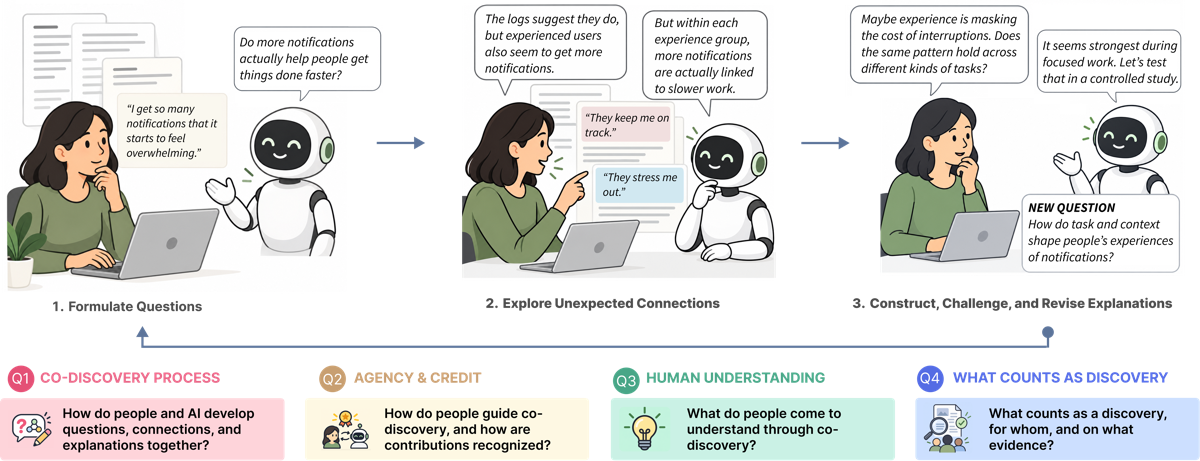
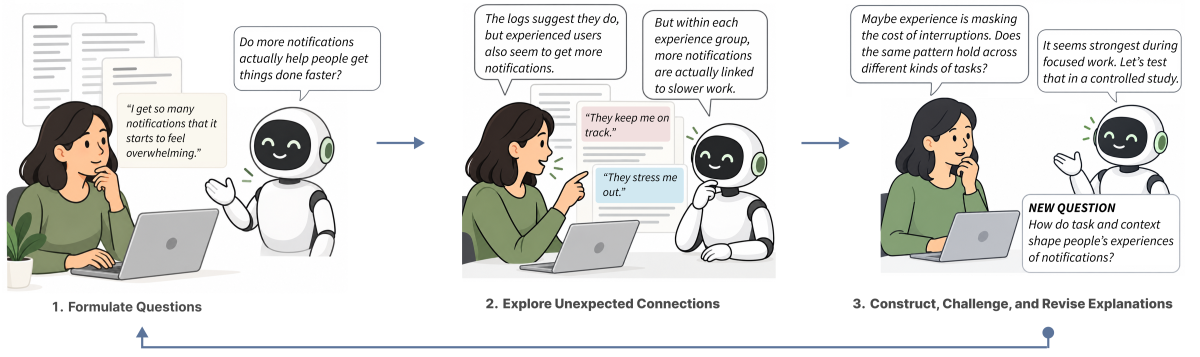
Remove the Q1-Q4 row from Figure 1 on the home page
The question cards directly below the figure already present the four
questions, so the website's copy of the teaser now ends after the
loop-back arrow. The alt text and extended description no longer
mention the question boxes, and the image size attributes match the
cropped 1200x357 image.

diff --git a/chi2027/index.html b/chi2027/index.html
@@ -189,13 +189,13 @@
           <a href="../assets/img/teaser-2400.webp" target="_blank" rel="noopener" class="block cursor-zoom-in">
             <picture>
               <source type="image/webp" srcset="../assets/img/teaser-1200.webp 1200w, ../assets/img/teaser-2400.webp 2400w" sizes="(min-width: 2400px) calc(100vw - 27rem), calc(84vw - 3rem)">
-              <img src="../assets/img/teaser-1200.png" width="1200" height="461" loading="lazy" decoding="async" class="block w-full h-auto" aria-describedby="figure-1-desc"
-                alt="Figure 1: a researcher and an AI assistant develop an inquiry about notifications in three steps (formulate questions; explore unexpected connections; construct, challenge, and revise explanations), above the workshop's four questions.">
+              <img src="../assets/img/teaser-1200.png" width="1200" height="357" loading="lazy" decoding="async" class="block w-full h-auto" aria-describedby="figure-1-desc"
+                alt="Figure 1: a researcher and an AI assistant develop an inquiry about notifications in three steps (formulate questions; explore unexpected connections; construct, challenge, and revise explanations).">
             </picture>
             <span class="sr-only">(opens full size in a new tab)</span>
           </a>
         </div>
-        <p id="figure-1-desc" hidden>Panel 1, Formulate Questions: an interview excerpt reads, "I get so many notifications that it starts to feel overwhelming." The AI asks whether more notifications actually help people get things done faster. Panel 2, Explore Unexpected Connections: the researcher says the logs suggest they do, but experienced users also seem to get more notifications. The AI notes that within each experience group, more notifications are linked to slower work. Two interview excerpts read, "They keep me on track" and "They stress me out." Panel 3, Construct, Challenge, and Revise Explanations: the researcher suggests that experience may be masking the cost of interruptions and asks whether the pattern holds across kinds of tasks. The AI says it seems strongest during focused work and proposes a controlled study. A new question asks how task and context shape people's experiences of notifications. An arrow returns from the third panel to the first. Four boxes below list the workshop questions: Q1, co-discovery process; Q2, agency and credit; Q3, human understanding; Q4, what counts as discovery.</p>
+        <p id="figure-1-desc" hidden>Panel 1, Formulate Questions: an interview excerpt reads, "I get so many notifications that it starts to feel overwhelming." The AI asks whether more notifications actually help people get things done faster. Panel 2, Explore Unexpected Connections: the researcher says the logs suggest they do, but experienced users also seem to get more notifications. The AI notes that within each experience group, more notifications are linked to slower work. Two interview excerpts read, "They keep me on track" and "They stress me out." Panel 3, Construct, Challenge, and Revise Explanations: the researcher suggests that experience may be masking the cost of interruptions and asks whether the pattern holds across kinds of tasks. The AI says it seems strongest during focused work and proposes a controlled study. A new question asks how task and context shape people's experiences of notifications. An arrow returns from the third panel to the first.</p>
         <figcaption class="mt-4 text-base text-ink-soft leading-relaxed">
           <span class="mr-1 text-xs font-bold uppercase tracking-widest text-ember-700">Figure 1</span> An illustrative human-AI co-discovery process: interview accounts and logs lead to analysis by experience level, a tentative explanation, and a proposed controlled study of alerts and task performance. The workshop's four questions appear below.
         </figcaption>

diff --git a/README.md b/README.md
@@ -17,7 +17,7 @@ Website for Human-AI Co-Discovery, exploring how people and AI discover new ques
 | `assets/js/tailwind.config.js` | Tailwind theme for the CHI 2027 page: Inter, and `tide` (deep cyan) and `ember` (warm orange) colors mapped to the CSS tokens |
 | `assets/js/main.js` | Lucide icons, the nav border on scroll, nav highlighting of the section being read, the title gloss, and the hero's discovery field (a canvas) on the CHI 2027 page |
 | `assets/archive/hero-banner.html` | Earlier, retired hero banner from the CHI 2027 page (animated discovery-path illustration, not the current hero), kept for reference with steps to restore it |
-| `assets/img/` | Figure 1 for the CHI 2027 page, exported from the proposal's teaser figure: 1200 and 2400 px WebP, with a 1200 px PNG fallback |
+| `assets/img/` | Figure 1 for the CHI 2027 page, exported from the proposal's teaser figure without its Q1–Q4 row (the question cards below it cover the four questions): 1200 and 2400 px WebP, with a 1200 px PNG fallback |
 | `assets/people/` | Organizer photos (320 px JPEG), from each organizer's homepage or the UbiComp/ISWC 2026 tutorial site |
 | `assets/brand/` | Organization avatar: `avatar-teal` (used on GitHub) and `avatar-light`, as 1024 px PNG and editable SVG |
 | `.nojekyll` | Serves the files as plain static HTML (no Jekyll processing) |
